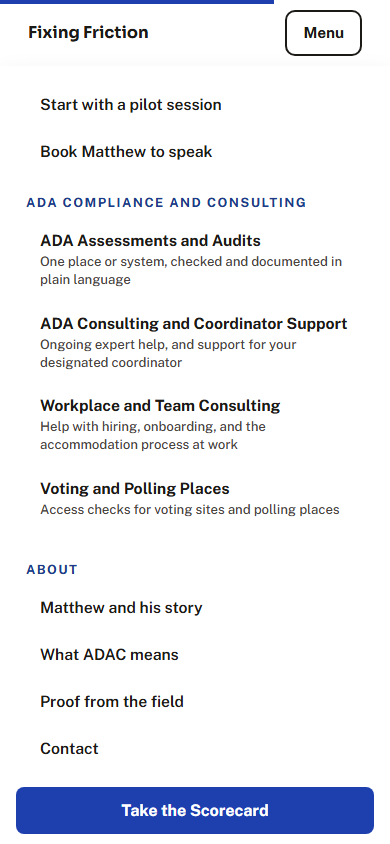
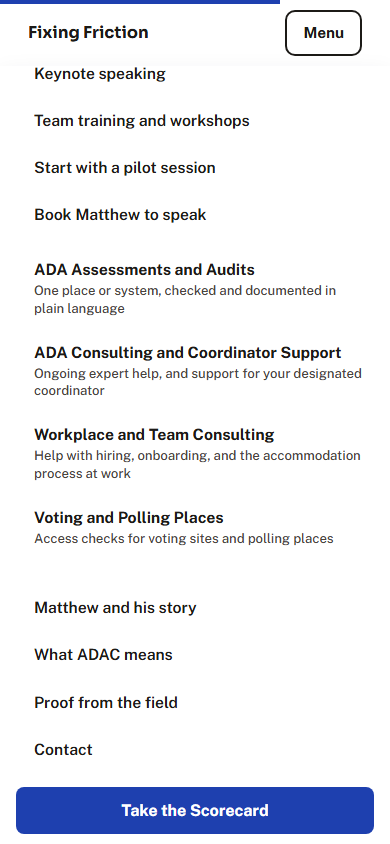
Phase 1 fixes: desktop row from 1280px, footer headings, spacing-only mobile groups, footer cleanup

Changed region(s): [[0.0615, 0.0616, 0.9231, 0.6777], [0.0923, 0.7701, 0.4615, 0.8934], [0.0923, 0.7085, 0.5231, 0.7393]]

diff --git a/index.html b/index.html
@@ -1325,13 +1325,27 @@
       .sitemap{grid-template-columns:repeat(6,minmax(0,1fr));gap:28px 22px;}
       .sitemap h3{text-wrap:balance;}
       .sitemap a{min-height:44px;display:flex;align-items:center;overflow-wrap:anywhere;}
-      @media (max-width:1199px){.sitemap{grid-template-columns:repeat(2,minmax(0,1fr));}}
+      @media (max-width:1279px){.sitemap{grid-template-columns:repeat(2,minmax(0,1fr));}}
       @media (max-width:599px){.sitemap{grid-template-columns:1fr;}}
       .foot-bar{border-top:1px solid var(--line);padding-top:18px;margin-top:10px;font-size:.92rem;color:var(--ink);max-width:60rem;}
       @media (max-width:1599px){.brand-sub{display:none;}}
-      @media (max-width:1339px){nav.pages{display:none;}.menubtn{display:block;}}
-      @media (min-width:1340px){.menupanel{display:none !important;}}
+      @media (max-width:1279px){nav.pages{display:none;}.menubtn{display:block;}}
+      @media (min-width:1280px){.menupanel{display:none !important;}}
       body:has(.menupanel.open) .to-top{display:none;}
+
+      /* ===== Phase 1 fixes: tighter desktop row at 1280, spacing-only mobile groups, footer headings ===== */
+      @media (min-width:1280px) and (max-width:1439px){
+        .head-in{padding-left:20px;padding-right:20px;gap:16px;}
+        nav.pages button.drop-btn,nav.pages > a:not(.cta){font-size:.8rem;padding-left:6px;padding-right:6px;}
+        nav.pages .nav-drop.g-start{margin-left:18px;}
+        nav.pages a.cta{margin-left:18px;padding:10px 16px;font-size:.8rem;}
+      }
+      .menupanel .menu-set{display:block;margin-top:8px;}
+      .menupanel .menu-set.g-start{margin-top:26px;}
+      .menupanel .menu-set:first-child{margin-top:0;}
+      .menupanel .menu-set[aria-current="page"]{box-shadow:inset 4px 0 0 var(--accent);}
+      .menupanel a.sub{padding-left:18px;}
+      .sitemap h3{font-size:.74rem;letter-spacing:.06em;white-space:normal;text-wrap:wrap;}
 </style>
     <script type="application/ld+json">
     {
@@ -1695,36 +1709,42 @@
         <button type="button" class="menubtn" id="menubtn" aria-expanded="false" aria-controls="menupanel">Menu</button>
       </div>
       <div class="menupanel" id="menupanel" role="navigation" aria-label="Site menu">
-        <p class="menu-group" data-nav-group="outs">The Three Outs</p>
+        <div class="menu-set" role="group" aria-label="The Three Outs" data-nav-group="outs">
         <a href="#home" data-go="home" class="sub"><span class="di-t">Burn Out<span class="vh">: </span></span><span class="di-s">What individual contributors feel</span></a>
         <a href="#home" data-go="home" class="sub"><span class="di-t">Turn Out<span class="vh">: </span></span><span class="di-s">When people stop showing up</span></a>
         <a href="#home" data-go="home" class="sub"><span class="di-t">Churn Out<span class="vh">: </span></span><span class="di-s">When people leave for good</span></a>
         <a href="#debt" data-go="debt" class="sub">How friction builds into all three</a>
-        <p class="menu-group g-start" data-nav-group="leaders">For Leaders</p>
+        </div>
+        <div class="menu-set g-start" role="group" aria-label="For Leaders" data-nav-group="leaders">
         <a href="#training" data-go="training" class="sub">Speaking and training for teams</a>
         <a href="#start" data-go="start" class="sub">Start with a pilot session</a>
         <a href="#evidence" data-go="evidence" class="sub">Client stories</a>
         <a href="#speaking" data-go="speaking" class="sub">Book Matthew to speak</a>
-        <p class="menu-group" data-nav-group="workers">For Everyday Workers</p>
+        </div>
+        <div class="menu-set" role="group" aria-label="For Everyday Workers" data-nav-group="workers">
         <a href="#inside" data-go="inside" class="sub">Inside Fixing Friction</a>
         <a href="#inside" data-go="inside" class="sub">Help at work</a>
         <a href="#athome" data-go="athome" class="sub">Help at home and for families</a>
         <a href="#scorecards" data-go="scorecards" class="sub">Take the Scorecard</a>
-        <p class="menu-group g-start" data-nav-group="speaking">Speaking and Training</p>
+        </div>
+        <div class="menu-set g-start" role="group" aria-label="Speaking and Training" data-nav-group="speaking">
         <a href="#speaking" data-go="speaking" class="sub">Keynote speaking</a>
         <a href="#training" data-go="training" class="sub">Team training and workshops</a>
         <a href="#start" data-go="start" class="sub">Start with a pilot session</a>
         <a href="#speaking" data-go="speaking" class="sub">Book Matthew to speak</a>
-        <p class="menu-group" data-nav-group="ada">ADA Compliance and Consulting</p>
+        </div>
+        <div class="menu-set" role="group" aria-label="ADA Compliance and Consulting" data-nav-group="ada">
         <a href="#audits" data-go="audits" class="sub"><span class="di-t">ADA Assessments and Audits<span class="vh">: </span></span><span class="di-s">One place or system, checked and documented in plain language</span></a>
         <a href="#advising" data-go="advising" class="sub"><span class="di-t">ADA Consulting and Coordinator Support<span class="vh">: </span></span><span class="di-s">Ongoing expert help, and support for your designated coordinator</span></a>
         <a href="#support" data-go="support" class="sub"><span class="di-t">Workplace and Team Consulting<span class="vh">: </span></span><span class="di-s">Help with hiring, onboarding, and the accommodation process at work</span></a>
         <a href="#voting" data-go="voting" class="sub"><span class="di-t">Voting and Polling Places<span class="vh">: </span></span><span class="di-s">Access checks for voting sites and polling places</span></a>
-        <p class="menu-group g-start" data-nav-group="about">About</p>
+        </div>
+        <div class="menu-set g-start" role="group" aria-label="About" data-nav-group="about">
         <a href="#about-story" data-go="about" data-jump="about-story" class="sub">Matthew and his story</a>
         <a href="#about-faq" data-go="about" data-jump="about-faq" class="sub">What ADAC means</a>
         <a href="#evidence" data-go="evidence" class="sub">Proof from the field</a>
         <a href="#about-contact" data-go="about" data-jump="about-contact" class="sub">Contact</a>
+        </div>
         <a href="#scorecards" data-go="scorecards" class="menu-cta">Take the Scorecard</a>
       </div>
     </header>
@@ -5514,42 +5534,37 @@
 
     <footer class="site">
       <div class="foot-in">
-        <p><strong>Fixing Friction</strong>, an ADA accessibility practice by Litmus Collective. Ecosystem Architecture.</p>
-        <p class="small u08">Written in plain language and checked against lived reality as well as the standard: the same two readings this practice gives every finding.</p>
-        <p class="fineprint">Outputs are assessments and recommendations, not legal determinations. Matthew Cicanese, ADAC.</p>
-        <p class="fineprint">Each client&#8217;s data stays that client&#8217;s property. Cross-client views are anonymized averages only. Data is never sold.</p>
-        <p class="fineprint"><a href="buildout/" rel="nofollow" class="quiet-link">Buildout</a> &middot; <a href="launch/" rel="nofollow" class="quiet-link">Launch checklist</a> &middot; <a href="changes/" rel="nofollow" class="quiet-link">Changes</a></p>
         <nav class="sitemap" aria-label="Footer">
           <div>
-            <h3 role="heading" aria-level="2">The Three&nbsp;Outs</h3>
+            <h3 role="heading" aria-level="2">The&nbsp;Three&nbsp;Outs</h3>
             <a href="#home" data-go="home">Burn Out</a>
             <a href="#home" data-go="home">Turn Out</a>
             <a href="#home" data-go="home">Churn Out</a>
             <a href="#debt" data-go="debt">How friction builds</a>
           </div>
           <div>
-            <h3 role="heading" aria-level="2">For Leaders</h3>
+            <h3 role="heading" aria-level="2">For&nbsp;Leaders</h3>
             <a href="#training" data-go="training">Speaking and training for teams</a>
             <a href="#start" data-go="start">Start with a pilot session</a>
             <a href="#evidence" data-go="evidence">Client stories</a>
             <a href="#speaking" data-go="speaking">Book Matthew to speak</a>
           </div>
           <div>
-            <h3 role="heading" aria-level="2">For Everyday&nbsp;Workers</h3>
+            <h3 role="heading" aria-level="2">For&nbsp;Everyday&nbsp;Workers</h3>
             <a href="#inside" data-go="inside">Inside Fixing Friction</a>
             <a href="#inside" data-go="inside">Help at work</a>
             <a href="#athome" data-go="athome">Help at home and for families</a>
             <a href="#scorecards" data-go="scorecards">Take the Scorecard</a>
           </div>
           <div>
-            <h3 role="heading" aria-level="2">Speaking and&nbsp;Training</h3>
+            <h3 role="heading" aria-level="2">Speaking&nbsp;and&nbsp;Training</h3>
             <a href="#speaking" data-go="speaking">Keynote speaking</a>
             <a href="#training" data-go="training">Team training and workshops</a>
             <a href="#start" data-go="start">Start with a pilot session</a>
             <a href="#speaking" data-go="speaking">Book Matthew to speak</a>
           </div>
           <div>
-            <h3 role="heading" aria-level="2">ADA Compliance and&nbsp;Consulting</h3>
+            <h3 role="heading" aria-level="2">ADA&nbsp;Compliance and&nbsp;Consulting</h3>
             <a href="#audits" data-go="audits">ADA Assessments and Audits</a>
             <a href="#advising" data-go="advising">ADA Consulting and Coordinator Support</a>
             <a href="#support" data-go="support">Workplace and Team Consulting</a>
@@ -5563,9 +5578,10 @@
             <a href="mailto:hello@fixingfriction.com">Contact: hello@fixingfriction.com</a>
           </div>
         </nav>
-        <p class="foot-cta"><strong>Not sure where you fit?</strong> Start with a conversation about the site and the deadline you are working toward. <a href="#start" data-go="start">Start a conversation</a></p>
-        <p class="fineprint">By Matthew Cicanese · Litmus Collective · Fort Collins, Colorado</p>
         <p class="foot-bar">Fixing Friction. Helping communities and individuals feel seen, heard, understood, and connected. Fort Collins, Colorado. Accessibility guidance and coordination, not legal advice.</p>
+        <p class="fineprint">Outputs are assessments and recommendations, not legal determinations. Matthew Cicanese, ADAC.</p>
+        <p class="fineprint">Each client&#8217;s data stays that client&#8217;s property. Cross-client views are anonymized averages only. Data is never sold.</p>
+        <p class="fineprint">By Matthew Cicanese · Litmus Collective · Fort Collins, Colorado</p>
       </div>
     </footer>
 
@@ -5720,7 +5736,7 @@
              every dropdown item as a dark "current" block. Dropdown items,
              mobile sub-items, footer/sitemap links and in-page buttons all
              point at sections or repeat a page link: they are never current. */
-          document.querySelectorAll("[data-go][aria-current]").forEach(function (b) {
+          document.querySelectorAll("[data-go][aria-current], [data-nav-group][aria-current]").forEach(function (b) {
             b.removeAttribute("aria-current");
           });
           /* Active-page mapping: About, Who We Help, ADA Compliance,
